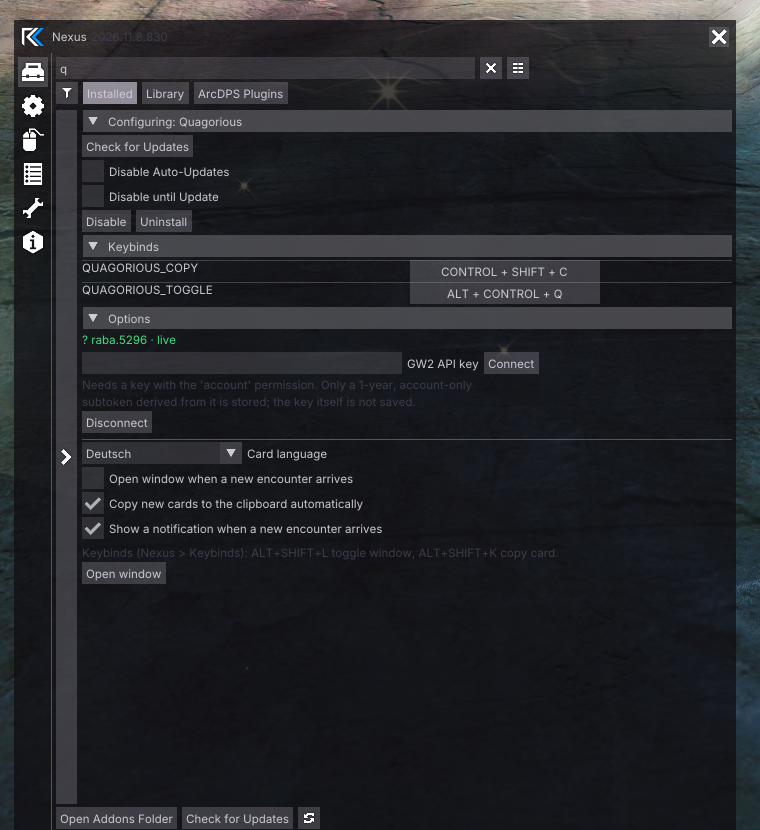
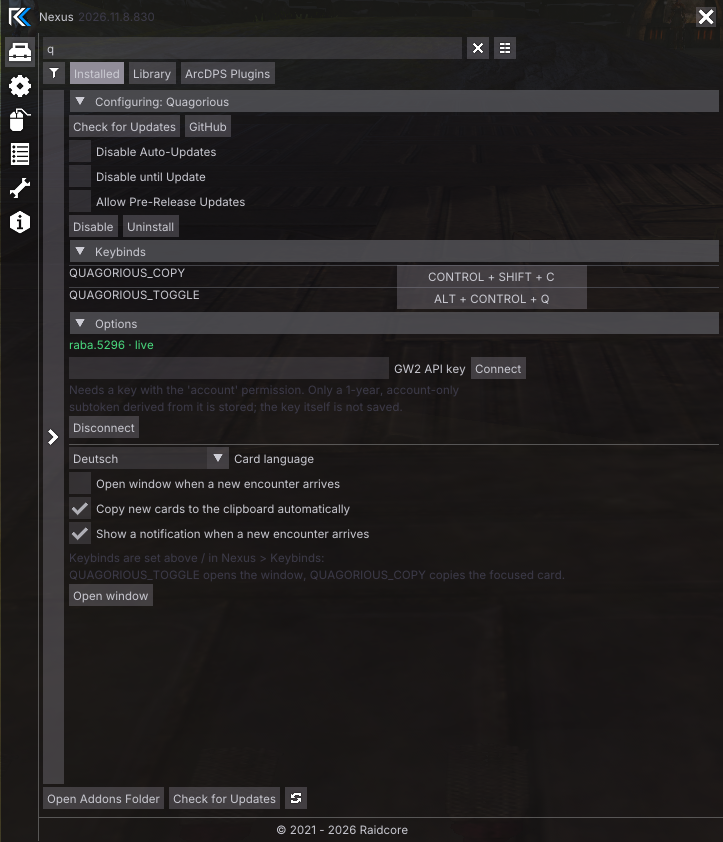
Docs: add quickness card screenshots, mark it as verified
Add the overview, fight and quickness cards of a Fraenir kill as
quick-DPS Harbinger to the README, and replace the options screenshot
with the current layout.

diff --git a/doc/ADR/README.md b/doc/ADR/README.md
@@ -95,7 +95,8 @@ refreshed by whichever needs it first (`ensure_session`).
 **Working and verified in game:** connecting with an API key; the live
 feed; new tries arriving about a second after the upload; the window with
 try picker and card carousel; copying the focused card; the alacrity card
-on a support wipe; the browser link; the fixed status line; pasting the
+on a support wipe; the quickness card on a quick-DPS kill (Fraenir of
+Jormag, Harbinger); the browser link; the fixed status line; pasting the
 copied card into Discord on Linux (Wine's clipboard bridge); the Nexus
 notification on a new try.
 
@@ -104,7 +105,6 @@ six real tries (kills, wipes, CM, alac-heal, alac-DPS), English labels,
 the subgroup-based boon card.
 
 **Not verified yet:**
-- A quickness card (no quick-support sample yet).
 - The tag-triggered release workflow (its release-triggered predecessor
   built v0.2.0) and a complete Nexus auto-update (see
   [0011](0011-release-builds-on-github.md)).

diff --git a/README.md b/README.md
@@ -27,6 +27,12 @@ they're copied to the clipboard:
 |---|---|---|
 | ![Overview card](doc/images/card-deimos-overview.png) | ![Fight timeline card](doc/images/card-deimos-fight.png) | ![Alacrity card](doc/images/card-deimos-alacrity.png) |
 
+And a kill as quick-DPS Harbinger (Fraenir of Jormag), copied in game:
+
+| Overview | Fight timeline | Your boon |
+|---|---|---|
+| ![Overview card, Fraenir kill](doc/images/card-fraenir-overview.png) | ![Fight timeline card, Fraenir kill](doc/images/card-fraenir-fight.png) | ![Quickness card](doc/images/card-fraenir-quickness.png) |
+
 In game: the window with the try picker, the card carousel and the copy
 buttons, and the addon's page in Nexus → Options.
 
